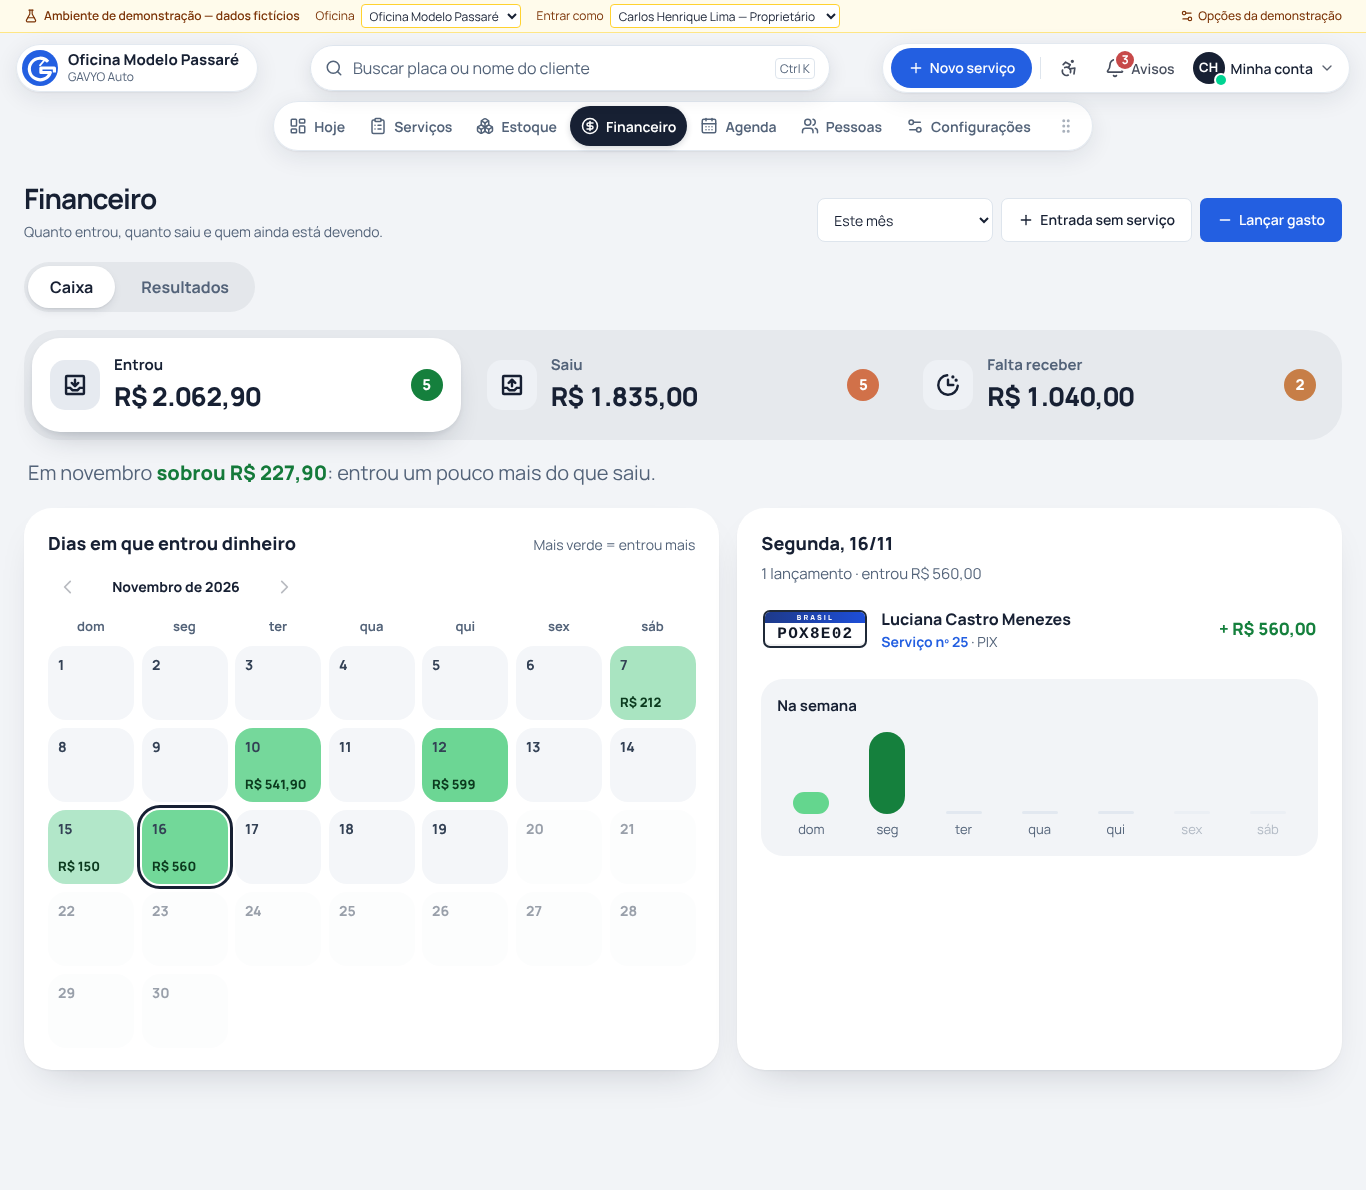
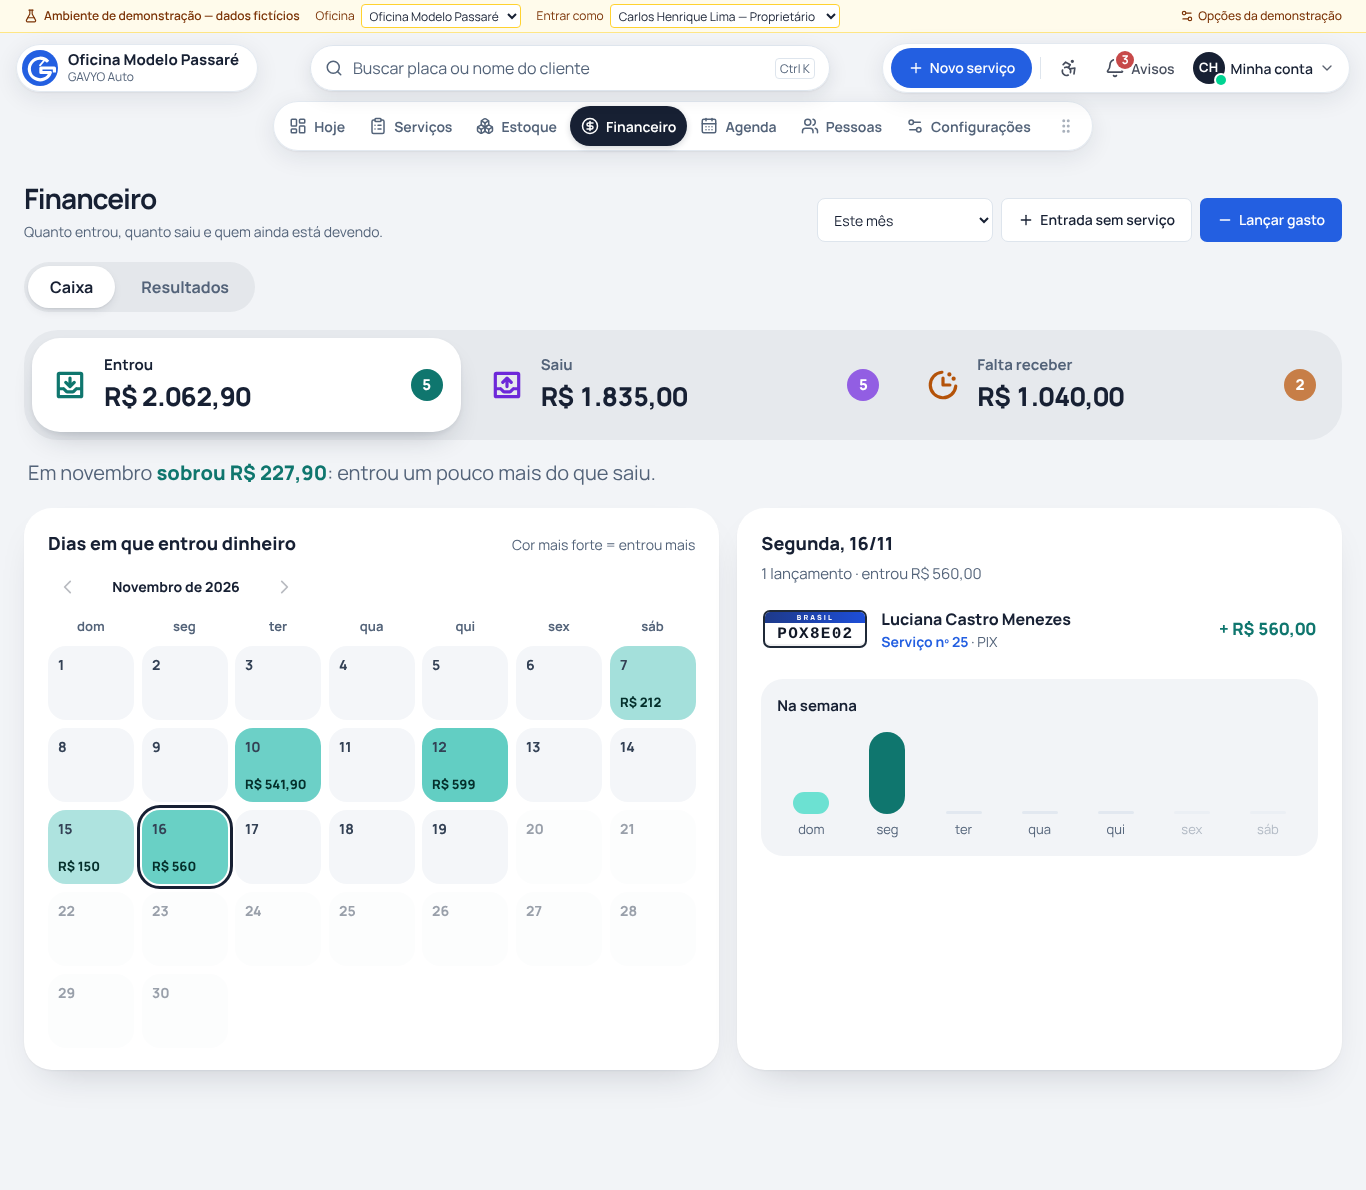
style: ícones do Caixa sem moldura, na cor da área e com animação no hover
Seta entra em Entrou, sai em Saiu, relógio balança em Falta receber.
Paleta nova: verde-azulado para Entrou, roxo para Saiu, âmbar para Falta
receber (decisão 84).

Claude-Session: https://claude.ai/code/session_015xcccMtBZyPoUvGxoauYP3

diff --git a/src/app/globals.css b/src/app/globals.css
@@ -2460,23 +2460,29 @@ html[data-motion="reduce"] :is(.fr-box, .fr-row, .fr-bar > span) { animation: no
 .cash { display: grid; gap: 16px; }
 .cash-tabs { display: grid; grid-template-columns: repeat(3, minmax(0, 1fr)); gap: 8px; padding: 8px; border-radius: 34px; background: color-mix(in srgb, var(--text) 5%, transparent); }
 @media (max-width: 760px) { .cash-tabs { grid-template-columns: minmax(0, 1fr); border-radius: 28px; } }
-.cash-tab { --c: #15803d; --soft: #dcfce7; display: flex; align-items: center; gap: 14px; min-width: 0; padding: 16px 18px; border-radius: 28px; text-align: left; color: var(--muted); transition: background-color 200ms, box-shadow 260ms cubic-bezier(.16, 1, .3, 1), transform 120ms cubic-bezier(.23, 1, .32, 1); }
-.cash-tab[data-kind="expense"] { --c: #c2410c; --soft: #ffedd5; }
+.cash-tab { --c: #0f766e; --soft: #ccfbf1; display: flex; align-items: center; gap: 14px; min-width: 0; padding: 16px 18px; border-radius: 28px; text-align: left; color: var(--muted); transition: background-color 200ms, box-shadow 260ms cubic-bezier(.16, 1, .3, 1), transform 120ms cubic-bezier(.23, 1, .32, 1); }
+.cash-tab[data-kind="expense"] { --c: #6d28d9; --soft: #ede9fe; }
 .cash-tab[data-kind="receivable"] { --c: #b45309; --soft: #fef3c7; }
 .cash-tab:hover { background: rgb(255 255 255 / 55%); }
 .cash-tab:active { transform: scale(.985); }
 .cash-tab[aria-selected="true"] { background: var(--surface); color: var(--text); box-shadow: 0 2px 4px rgb(23 32 51 / 6%), 0 14px 30px -14px rgb(23 32 51 / 30%); }
 .cash-tab:focus-visible, .cash-day:focus-visible, .cash-bar:focus-visible, .cash-cal-nav:focus-visible { outline: 3px solid color-mix(in srgb, var(--primary) 45%, transparent); outline-offset: 2px; }
-/* Ícones (decisão 83, escolha do usuário): traço grosso escuro em quadrado cinza arredondado. */
-.cash-tab-icon { display: grid; flex: none; place-items: center; width: 50px; height: 50px; border-radius: 15px; background: #eef1f5; color: var(--text); font-size: 26px; }
-.cash-tab[aria-selected="true"] .cash-tab-icon { background: #e6eaf0; }
+/* Ícones (decisão 84): só o desenho, na cor da área; no hover ele mostra o que significa
+   (a seta entra, a seta sai, o relógio balança). */
+.cash-tab-icon { display: grid; flex: none; place-items: center; width: 40px; height: 40px; color: var(--c); font-size: 34px; }
+.cash-tab:hover .cash-tab-icon svg, .cash-tab:focus-visible .cash-tab-icon svg { animation: cash-in 620ms cubic-bezier(.34, 1.56, .64, 1); }
+.cash-tab[data-kind="expense"]:hover .cash-tab-icon svg, .cash-tab[data-kind="expense"]:focus-visible .cash-tab-icon svg { animation-name: cash-out; }
+.cash-tab[data-kind="receivable"]:hover .cash-tab-icon svg, .cash-tab[data-kind="receivable"]:focus-visible .cash-tab-icon svg { animation: cash-tick 700ms ease-in-out; }
+@keyframes cash-in { 0% { transform: none; } 35% { transform: translateY(5px) scale(.94); } 65% { transform: translateY(-2px); } 100% { transform: none; } }
+@keyframes cash-out { 0% { transform: none; } 35% { transform: translateY(-5px) scale(.94); } 65% { transform: translateY(2px); } 100% { transform: none; } }
+@keyframes cash-tick { 0%, 100% { transform: rotate(0); } 20% { transform: rotate(-14deg); } 45% { transform: rotate(10deg); } 70% { transform: rotate(-5deg); } }
 .cash-tab-text { display: grid; min-width: 0; }
 .cash-tab-text small { font-size: .9375rem; font-weight: 700; }
 .cash-tab-value { overflow: hidden; font-size: 1.625rem; font-weight: 800; letter-spacing: -.02em; color: var(--text); text-overflow: ellipsis; white-space: nowrap; font-variant-numeric: tabular-nums; }
 .cash-tab-count { display: grid; flex: none; place-items: center; min-width: 32px; height: 32px; margin-left: auto; padding: 0 8px; border-radius: 999px; background: var(--c); font-size: .9375rem; font-weight: 800; color: #fff; }
 .cash-tab:not([aria-selected="true"]) .cash-tab-count { background: color-mix(in srgb, var(--c) 75%, #fff); }
 .cash-say { margin: 2px 4px 4px; font-size: 1.25rem; color: var(--muted); }
-.cash-say strong { font-weight: 800; color: var(--success); }
+.cash-say strong { font-weight: 800; color: #0f766e; }
 .cash-say strong[data-tone="down"] { color: var(--danger); }
 .cash-two { display: grid; grid-template-columns: minmax(0, 1.15fr) minmax(0, 1fr); gap: 18px; }
 @media (max-width: 1000px) { .cash-two { grid-template-columns: minmax(0, 1fr); } }
@@ -2493,8 +2499,8 @@ html[data-motion="reduce"] :is(.fr-box, .fr-row, .fr-bar > span) { animation: no
 .cash-cal-nav { display: grid; place-items: center; width: 40px; height: 40px; border-radius: 999px; color: var(--text); }
 .cash-cal-nav:hover:not(:disabled) { background: var(--bg); }
 .cash-cal-nav:disabled { opacity: .3; }
-.cash-cal { --hue: #22c55e; --ink: #0b3a1e; display: grid; grid-template-columns: repeat(7, minmax(0, 1fr)); gap: 8px; }
-.cash-cal[data-kind="expense"] { --hue: #fb923c; --ink: #4a1a05; }
+.cash-cal { --hue: #14b8a6; --ink: #042f2b; display: grid; grid-template-columns: repeat(7, minmax(0, 1fr)); gap: 8px; }
+.cash-cal[data-kind="expense"] { --hue: #a78bfa; --ink: #2e1065; }
 .cash-cal-wd { padding-bottom: 2px; font-size: .8125rem; font-weight: 700; color: var(--muted); text-align: center; }
 .cash-day { display: flex; flex-direction: column; justify-content: space-between; min-width: 0; height: 74px; padding: 8px 10px; border-radius: 18px; background: color-mix(in srgb, var(--hue) calc(var(--a) * 100%), #f4f6f9); text-align: left; transition: transform 140ms cubic-bezier(.23, 1, .32, 1), box-shadow 160ms; animation: cash-pop 320ms calc(var(--i, 0) * 12ms) cubic-bezier(.16, 1, .3, 1) both; }
 @keyframes cash-pop { from { opacity: 0; transform: scale(.92); } }
@@ -2513,13 +2519,16 @@ html[data-motion="reduce"] :is(.fr-box, .fr-row, .fr-bar > span) { animation: no
 .cash-row-main small { font-size: .875rem; color: var(--muted); }
 .cash-link { font-weight: 700; color: var(--primary); }
 .cash-link:hover { text-decoration: underline; }
-.cash-cat { display: grid; flex: none; place-items: center; width: 46px; height: 46px; border-radius: 14px; background: #eef1f5; color: var(--text); font-size: 24px; }
+.cash-cat { display: grid; flex: none; place-items: center; width: 40px; height: 40px; color: #6d28d9; font-size: 30px; }
+.cash-cat[data-kind="income"] { color: #0f766e; }
+.cash-row:hover .cash-cat svg { animation: cash-hop 520ms cubic-bezier(.34, 1.56, .64, 1); }
+@keyframes cash-hop { 0% { transform: none; } 40% { transform: translateY(-4px) rotate(-8deg) scale(1.08); } 100% { transform: none; } }
 .cash-amt { flex: none; font-size: 1.0625rem; font-weight: 800; font-variant-numeric: tabular-nums; }
-.cash-amt.is-in { color: #15803d; } .cash-amt.is-out { color: #c2410c; } .cash-amt.is-due { color: #b45309; }
+.cash-amt.is-in { color: #0f766e; } .cash-amt.is-out { color: #6d28d9; } .cash-amt.is-due { color: #b45309; }
 .cash-week { display: grid; gap: 10px; margin-top: 6px; padding: 16px; border-radius: 22px; background: var(--bg); }
 .cash-week-title { font-size: .9375rem; color: var(--text); }
-.cash-week-bars { --hue: #22c55e; --strong: #15803d; display: flex; align-items: flex-end; gap: 8px; height: 112px; }
-.cash-week-bars[data-kind="expense"] { --hue: #fdba74; --strong: #ea580c; }
+.cash-week-bars { --hue: #2dd4bf; --strong: #0f766e; display: flex; align-items: flex-end; gap: 8px; height: 112px; }
+.cash-week-bars[data-kind="expense"] { --hue: #c4b5fd; --strong: #6d28d9; }
 .cash-bar { display: flex; flex: 1; flex-direction: column; align-items: center; justify-content: flex-end; gap: 6px; height: 100%; min-width: 0; }
 .cash-bar-fill { width: 100%; max-width: 36px; height: calc(var(--h) * 82px); border-radius: 999px; background: color-mix(in srgb, var(--hue) 70%, #fff); transform-origin: bottom; animation: cash-grow 520ms calc(var(--i, 0) * 50ms + 120ms) cubic-bezier(.16, 1, .3, 1) both; }
 .cash-bar:not([data-has]) .cash-bar-fill { background: #e2e8f0; }
@@ -2527,5 +2536,5 @@ html[data-motion="reduce"] :is(.fr-box, .fr-row, .fr-bar > span) { animation: no
 .cash-bar small { font-size: .8125rem; color: var(--muted); }
 .cash-bar:disabled { opacity: .4; }
 @keyframes cash-grow { from { transform: scaleY(0); } }
-@media (prefers-reduced-motion: reduce) { .cash-card, .cash-day, .cash-row, .cash-bar-fill { animation: none; } }
-html[data-motion="reduce"] :is(.cash-card, .cash-day, .cash-row, .cash-bar-fill) { animation: none; }
+@media (prefers-reduced-motion: reduce) { .cash-card, .cash-day, .cash-row, .cash-bar-fill, .cash-tab-icon svg, .cash-cat svg { animation: none !important; } }
+html[data-motion="reduce"] :is(.cash-card, .cash-day, .cash-row, .cash-bar-fill, .cash-tab-icon svg, .cash-cat svg) { animation: none !important; }

diff --git a/src/features/finance/cash-view.tsx b/src/features/finance/cash-view.tsx
@@ -156,7 +156,7 @@ function Calendar({ kind, month, from, to, day, total, onPick, onMonth }: {
     <section className="cash-card" aria-labelledby="cash-cal-title">
       <div className="cash-cal-head">
         <h2 id="cash-cal-title" className="cash-h2">Dias em que {word} dinheiro</h2>
-        <span className="cash-cal-legend">{kind === "income" ? "Mais verde" : "Mais laranja"} = {word} mais</span>
+        <span className="cash-cal-legend">Cor mais forte = {word} mais</span>
       </div>
       <div className="cash-cal-month">
         <button type="button" className="cash-cal-nav" aria-label="Mês anterior" disabled={prev < startOfMonth(from)} onClick={() => onMonth(prev)}><CaretLeft size={18} weight="bold" aria-hidden /></button>

diff --git a/docs/DECISOES.md b/docs/DECISOES.md
@@ -86,3 +86,4 @@
 | 81 | **Caixa redesenhado: abas grandes + calendário pintado** (usuário, 19/11, com print marcado: "padrão de IA jogando informações de um jeito paia", "cores não chamativas, gráfico pouco legível, muito quadrado, pouco interativo", "tabela básica e pouco legível"; mostrei 2 direções em rascunho com os dados da demonstração; escolheu a **B**, "mude esses ícones que parecem emoji de WhatsApp e deixe um pouco mais redondo as 3 opções") | Saem os 4 cartões, o gráfico de barras (recharts) e a tabela de lançamentos do Caixa. **Três abas grandes** — Entrou · Saiu · Falta receber — no mesmo padrão das abas de Serviços (branca elevada na escolhida), com ícone Phosphor duotone em círculo (seta para baixo verde, seta para cima laranja, ampulheta âmbar), valor e contagem; trilho e abas bem arredondados (34/28 px). **Frase:** "Em novembro sobrou R$ 227,90: entrou um pouco mais do que saiu" (ou "faltou…" em vermelho). **Calendário do mês** pintado pelo valor de cada dia (verde em Entrou, laranja em Saiu; mais forte = mais dinheiro), com setas para outros meses do período; tocar num dia mostra ao lado **o que aconteceu** (placa desenhada para serviço com link para ele, ícone Phosphor por tipo de gasto, + verde / − laranja) e **"Na semana"** em barras arredondadas que também escolhem o dia. **Falta receber** vira lista com pessoa, serviço, "pronto há X dias", placa, valor e **Receber**. Animações: dias aparecem em cascata curta, barras crescem, a lista do dia entra ao trocar. Acessível: cada dia é botão com nome "16, segunda: entrou R$ 560"; no celular o dia mostra só a cor e um ponto. As listas completas continuam em Resultados. |
 | 82 | **Ícones do Caixa num só padrão** (usuário, 19/11: "os ícones ainda tão meio feinhos, bote outros padronizados em uma cor") | Todos os ícones do Caixa viram o mesmo conjunto: Phosphor duotone, **na cor principal da oficina**, dentro do mesmo círculo azul-claro. Novos desenhos, mais fáceis de reconhecer: **Entrou** = bandeja com seta para dentro, **Saiu** = bandeja com seta para fora, **Falta receber** = relógio de contagem; gastos: motor (peças), loja (aluguel), lâmpada (energia), gota (água), pessoas (funcionários), chave (ferramentas), recibo (outros); entrada sem serviço = moedas. O verde e o laranja ficam só onde carregam significado (valores, calendário, contagem). |
 | 83 | **Ícones do Caixa: traço grosso escuro em quadrado cinza** (usuário, 19/11: "os ícones ficaram paia assim"; viu 4 estilos lado a lado e escolheu o 3) | Substitui o estilo da decisão 82 (os desenhos continuam): Phosphor **bold**, na cor do texto, dentro de um **quadrado cinza arredondado** (15 px). Vale para as três abas e para os ícones de gasto e entrada sem serviço. |
+| 84 | **Ícones só com o desenho, na cor da área, com animação no hover; paleta nova** (usuário, 19/11: "tire o quadrado, deixe só o ícone e uma animação top no hover, da cor da área, e troque essas cores") | Sem fundo: o ícone Phosphor bold aparece sozinho, maior (34 px nas abas, 30 px na lista). **Hover que explica:** em Entrou a seta mergulha na bandeja, em Saiu a seta sobe, em Falta receber o relógio balança; na lista do dia, o ícone do gasto dá um pulinho. Com "reduzir movimento", parado. **Paleta nova por área** (sai o verde/laranja): **Entrou = verde-azulado** (#0f766e), **Saiu = roxo** (#6d28d9; gastar é normal, nada de vermelho), **Falta receber = âmbar** (pede atenção). A cor da área vale para ícone, contagem, calendário, barras da semana e valores; a legenda virou "Cor mais forte = entrou mais". |
